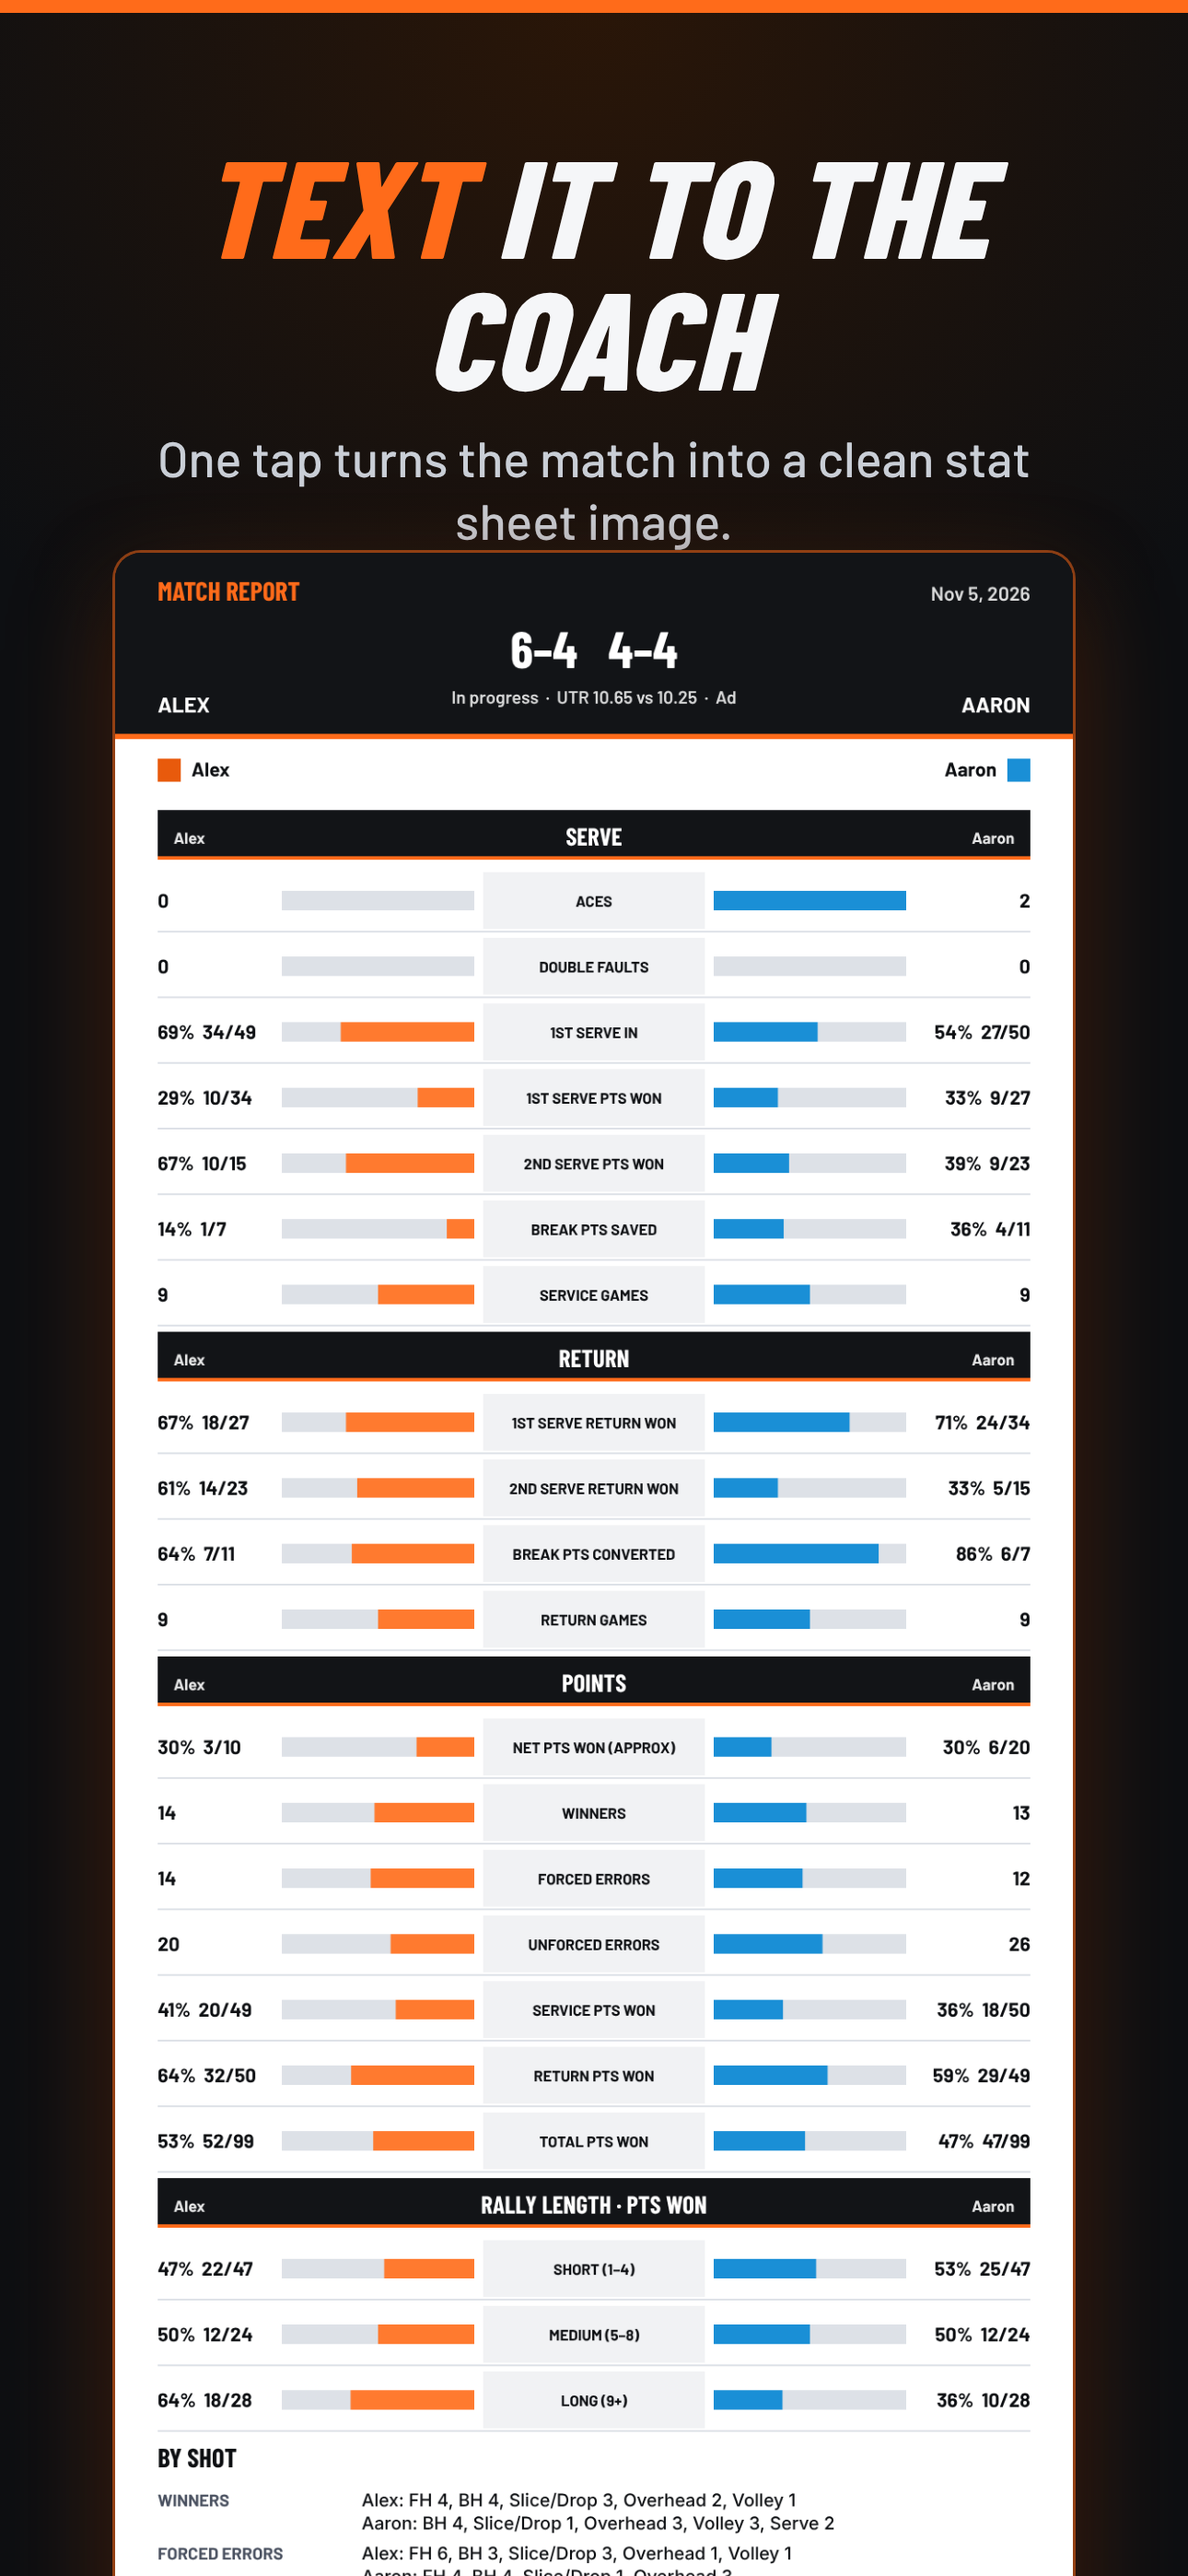
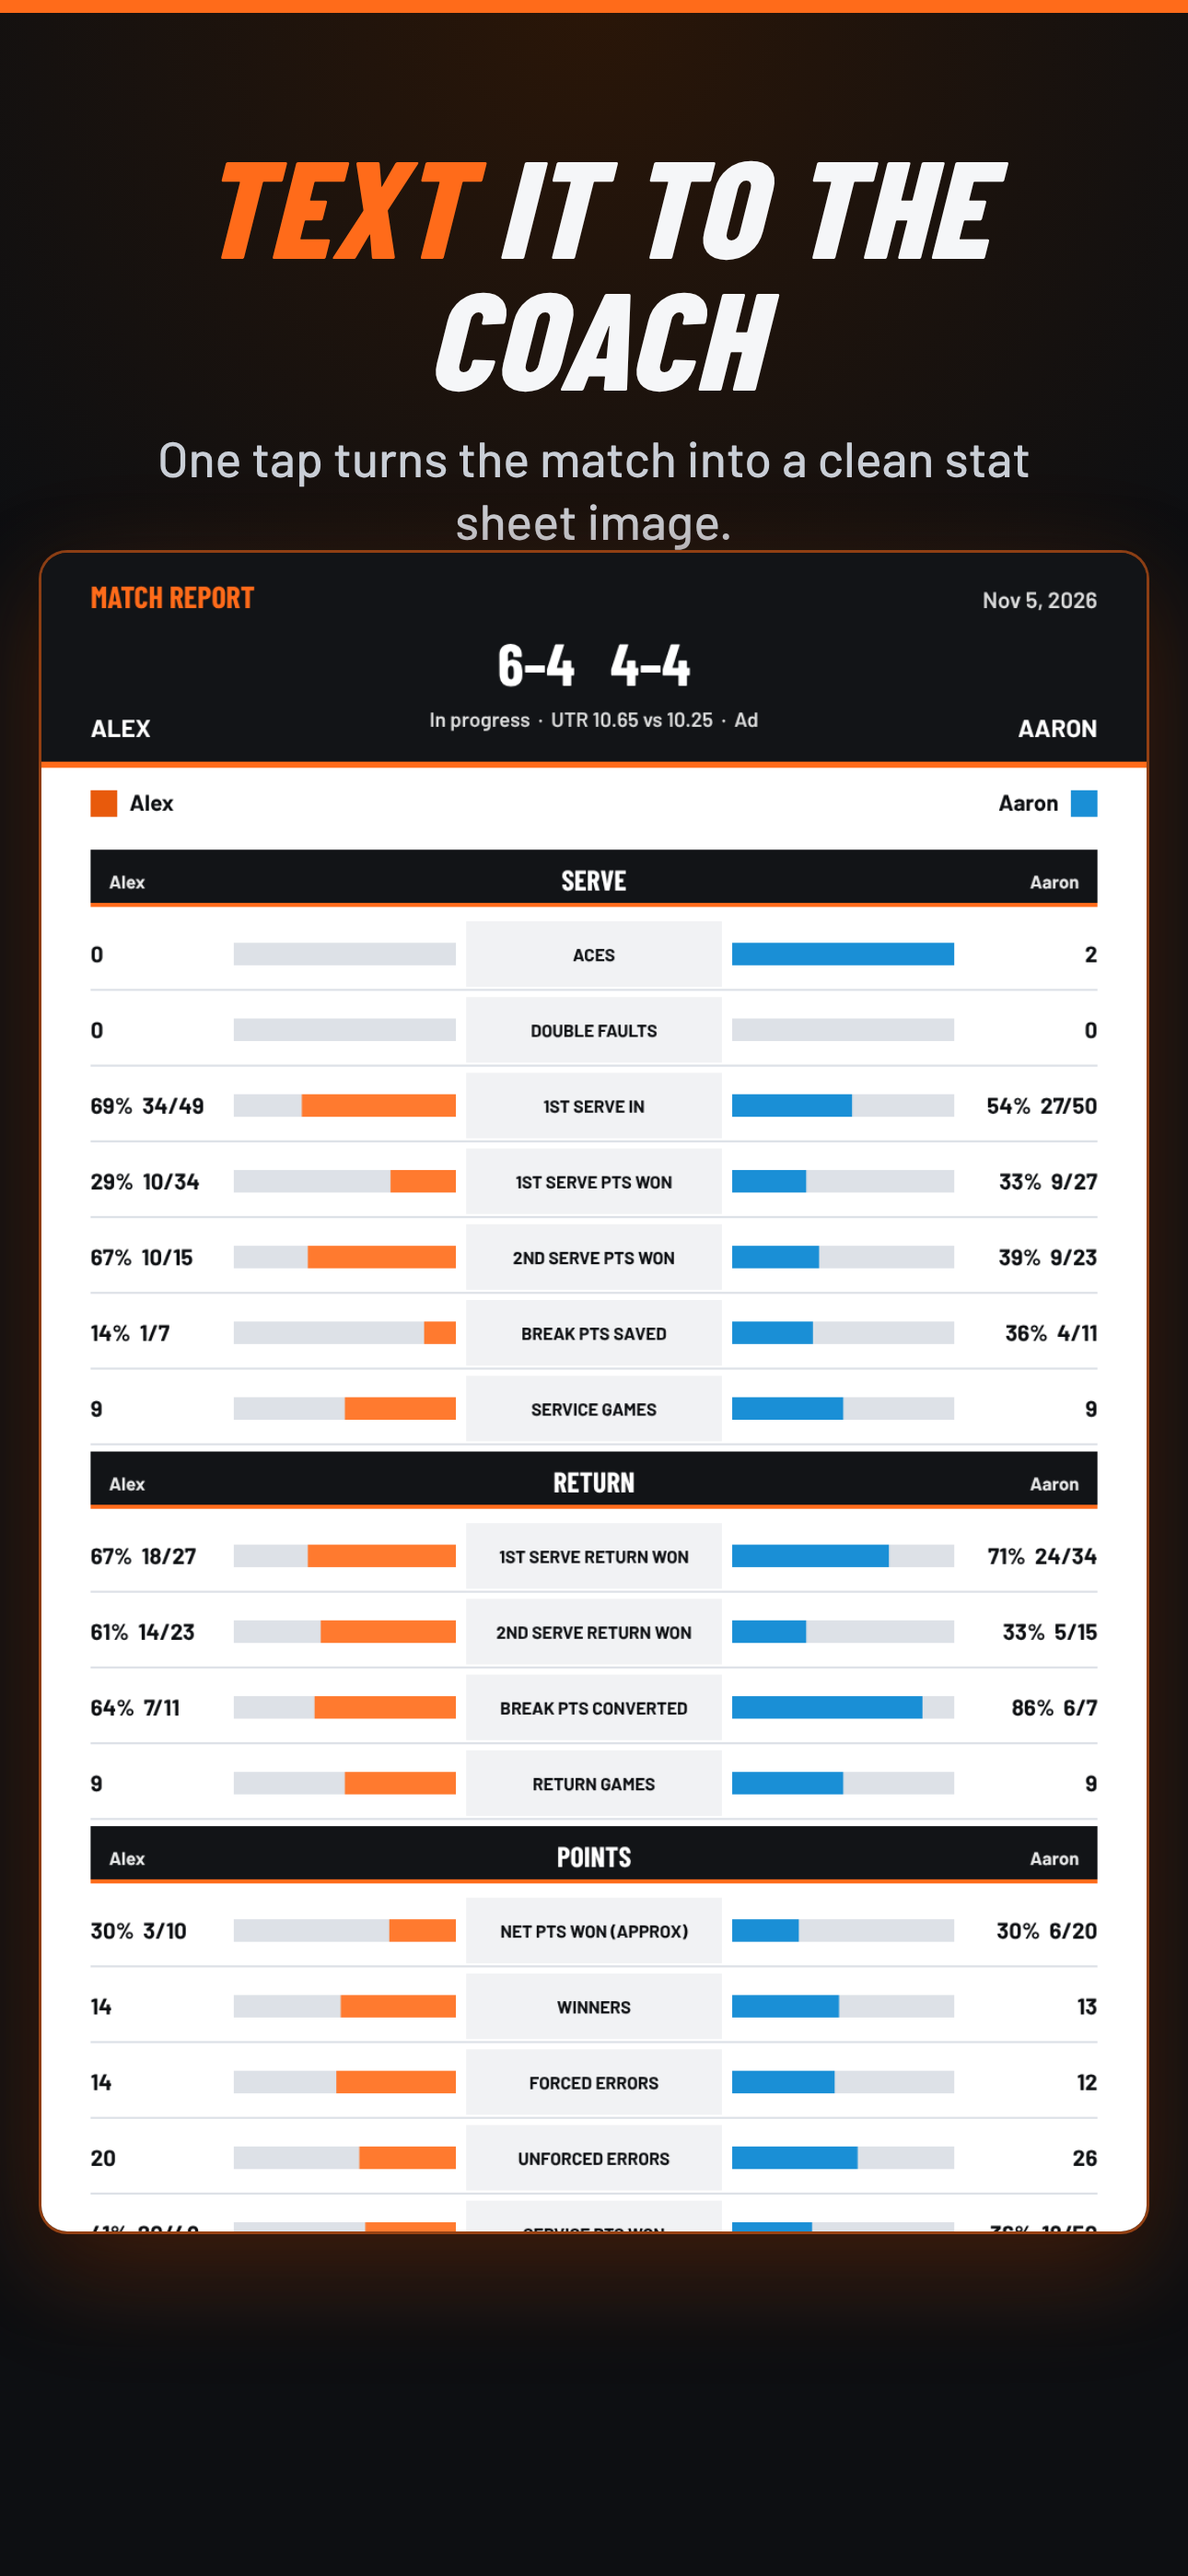
Sharper report screenshot (zoomed crop)
Claude-Session: https://claude.ai/code/session_01PJJEnFSadi4snHTyMEWpU6

diff --git a/tests/compose.js b/tests/compose.js
@@ -8,13 +8,13 @@ const frames=[
  ['01','live.png','Live win chance','Updates after every point. Green leads, red trails.'],
  ['02','who.png','Three taps a point','Serve in or fault. Who won. How. Big buttons, made for the sideline.'],
  ['03','stats.png','Pro-level stats','First serve %, break points, winners and errors, by set.'],
- ['04','report.png','Text it to the coach','One tap turns the match into a clean stat sheet image.'],
+ ['04','report_crop.png','Text it to the coach','One tap turns the match into a clean stat sheet image.'],
  ['05','setup.png','Free. No account.','Nothing leaves your phone. Add UTRs for odds, or skip them.'],
  ['06','live_sun.png','Sun mode','High-contrast mode for bright courts.'],
 ];
 (async()=>{ const b=await chromium.launch(); const p=await (await b.newContext({viewport:{width:W,height:H},deviceScaleFactor:1})).newPage();
- for(const [n,file,head,sub] of frames){ if(ipad && (file==='report.png')) continue;
-  const isReport=file==='report.png';
+ for(const [n,file,head,sub] of frames){ if(ipad && file.startsWith('report')) continue;
+  const isReport=file.startsWith('report');
   const html=`<!doctype html><html><head><style>
   @font-face{font-family:D;font-weight:800;src:url(${F('barlow-condensed-latin-800-normal.woff2')})}
   @font-face{font-family:B;font-weight:500;src:url(${F('barlow-latin-500-normal.woff2')})}
@@ -27,7 +27,7 @@ const frames=[
   .ph img{display:block;width:100%}
   .stripe{position:absolute;left:0;right:0;top:0;height:14px;background:#FF6B1A}
   </style></head><body><div class="stripe"></div><div class="t"><h1>${head.replace(/^(\S+)/,'<span>$1</span>')}</h1><p>${sub}</p></div>
-  <div class="ph"${isReport?' style="border-radius:28px"':''}><img src="${img(file)}"></div></body></html>`;
+  <div class="ph"${isReport?' style="border-radius:28px;width:'+(ipad?1500:1200)+'px"':''}><img src="${img(file)}"></div></body></html>`;
   await p.setContent(html); await p.evaluate(()=>document.fonts.ready); await p.waitForTimeout(150);
   await p.screenshot({path:`${OUT}/${n}.png`}); }
  await b.close(); })();
